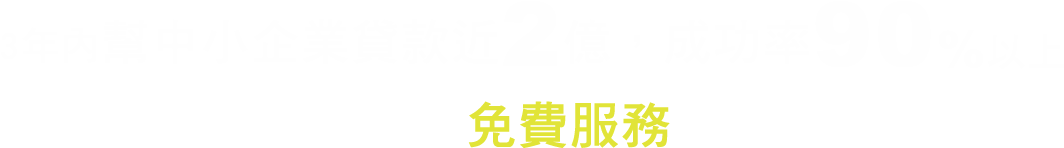
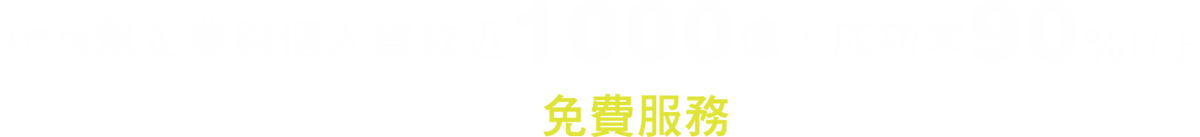
網站文字更新

Changed region(s): [[0.4342, 0.6715, 0.6513, 1.0]]

diff --git a/public/css/style.css b/public/css/style.css
@@ -1,4 +1,4 @@
-/*---------------------------------------------------------------------------------------------------- 全域 ---*/
+/*---------------------------------------------------------------------------------------------------- 全域 ---*/
 
 html{width:100%;height:100%}
 body{font:300 18px 微軟正黑體,"Microsoft JhengHei";width:100%;min-width:1280px;height:100%;line-height:2em}
@@ -55,7 +55,7 @@ height:102px;text-shadow:-1px 1px 1px #485561;padding:30px 0 0 67px!important;bo
 
 #DarkRed{border-top:1px solid #C3222A;text-align:center;background: url(../images/dr-bg.jpg) center center no-repeat #931E24}
 #DarkRed .limit{position:relative;z-index:2}
-#DarkRed h3{text-indent:-7777px;background:url(../images/dr-01.png) 0 0 no-repeat;width:1064px;height:148px;margin:0 auto 13% auto}
+#DarkRed h3{text-indent:-7777px;background:url(../images/dr-01.png) 0 0 no-repeat;width:1200px;height:137px;margin:0 auto 13% auto}
 
 /*---------------------------------------------------------------------------------------------------- 全域 ---*/
 
